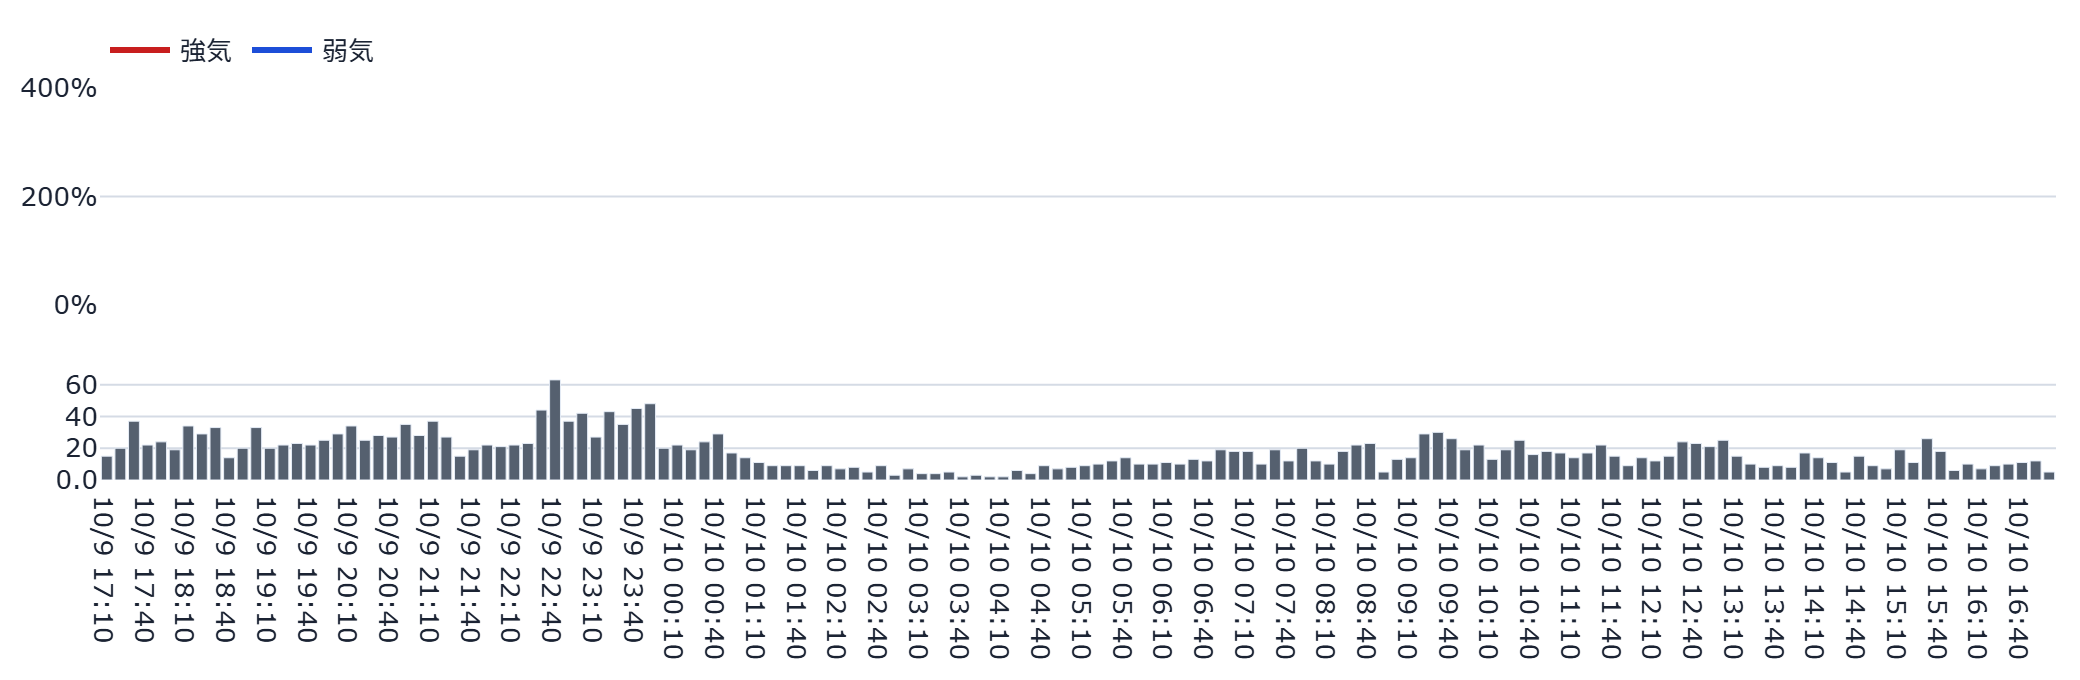
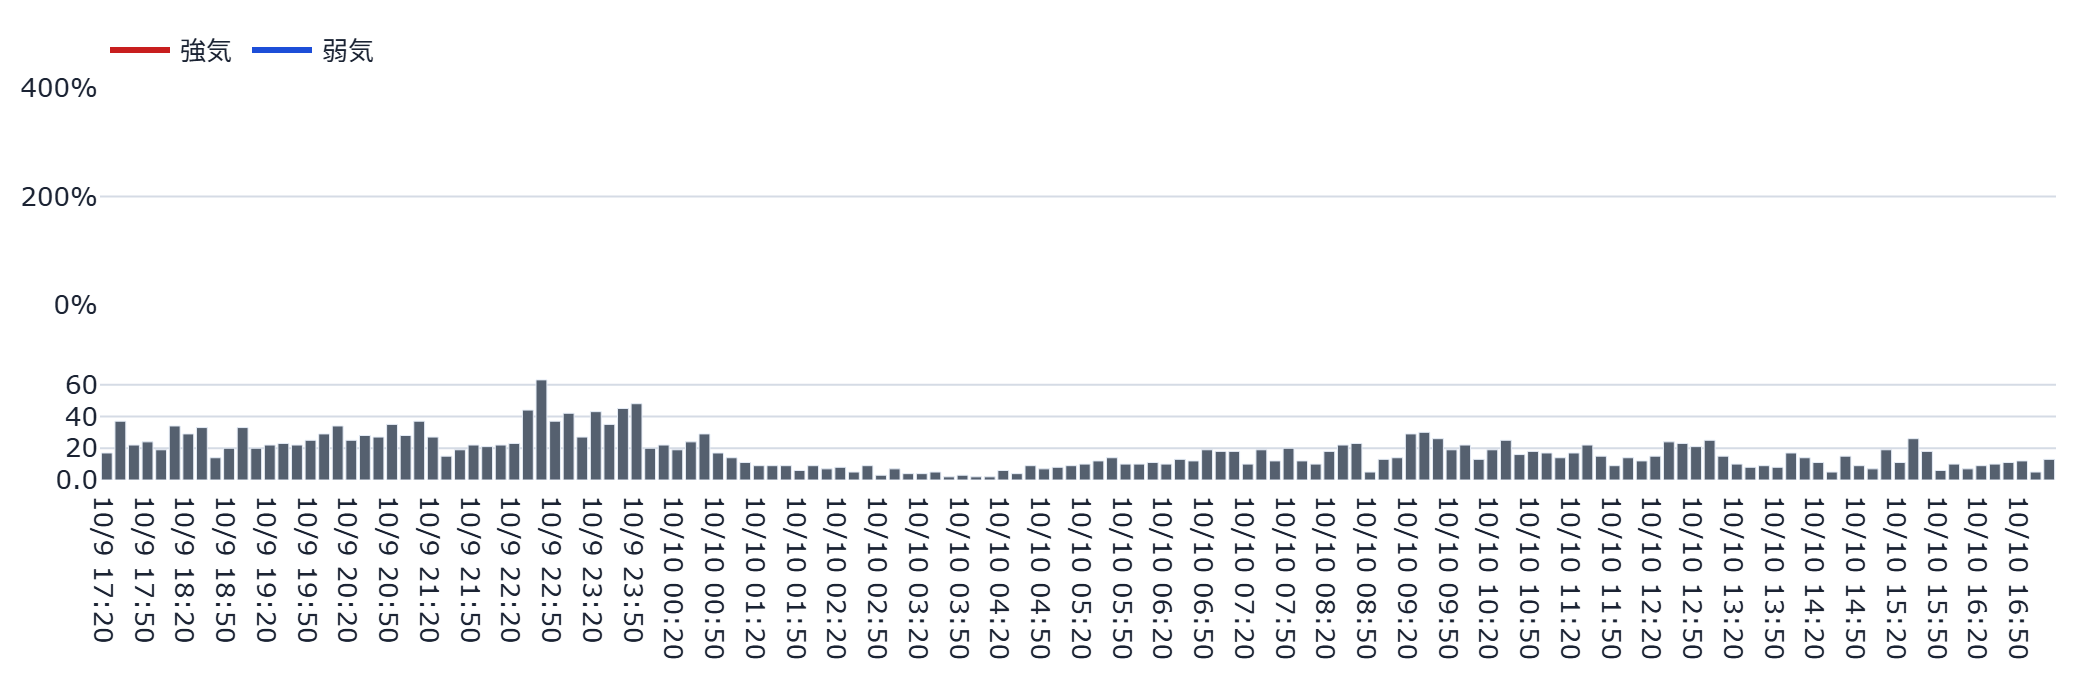
auto: refresh static dashboard (2026-10-10 17:29:11 JST)

diff --git a/docs/index.html b/docs/index.html
@@ -144,47 +144,59 @@
         <span class="price">17,505円</span>
         <span class="chg" style="color:#8B94A3">—</span>
       </div>
-      <p class="caption">更新時刻: 2026-10-10T17:14:08（データは1分間隔で自動生成され、このページも
+      <p class="caption">更新時刻: 2026-10-10T17:24:06（データは1分間隔で自動生成され、このページも
       60秒毎に自動再読み込みされます）</p>
       
-      <p id='visit-count-badge' class='caption'>👀 累計閲覧数: 8,820</p>
+      <p id='visit-count-badge' class='caption'>👀 累計閲覧数: 8,822</p>
       <p id='like-button-wrap' class='caption'><button id='like-button' type='button' style='cursor:pointer;border:1px solid var(--border);border-radius:6px;padding:1px 10px;margin-right:6px;background:var(--panel);color:var(--text);font-size:1em;vertical-align:middle'>👍</button><span id='like-count-label'>このダッシュボードが役に立ったら押してください（累計 4 いいね）</span></p>
 
       <!-- ★2026-09-08追加(ユーザー指示「AI考察はトップに移動」): モニタ
            (ai_sector_monitor)のtemplates/index.htmlと同じく、AI考察はタブ非依存で
            常時最上部に表示する。 -->
       <h2>🤖 AI考察</h2>
-      <div class='metric-row'><div class='metric-card'><div class='metric-label'>株価</div><div class='metric-value'>17,505円</div><div class='metric-delta'>+0円</div></div><div class='metric-card'><div class='metric-label'>強気比率</div><div class='metric-value'>—</div><div class='metric-delta'>—</div></div><div class='metric-card'><div class='metric-label'>弱気比率</div><div class='metric-value'>—</div><div class='metric-delta'>—</div></div></div><p class='caption'>前回集計(2026-10-10T17:04:56)との比較</p>
-      <div class='ai-box'>**※本分析は「掲示板投稿の集計センチメントデータに基づく分析」であり、投資助言ではありません。**<br>
+      <div class='metric-row'><div class='metric-card'><div class='metric-label'>株価</div><div class='metric-value'>17,505円</div><div class='metric-delta'>+0円</div></div><div class='metric-card'><div class='metric-label'>強気比率</div><div class='metric-value'>—</div><div class='metric-delta'>—</div></div><div class='metric-card'><div class='metric-label'>弱気比率</div><div class='metric-value'>—</div><div class='metric-delta'>—</div></div></div><p class='caption'>前回集計(2026-10-10T17:14:08)との比較</p>
+      <div class='ai-box'>**※本分析は「掲示板投稿の集計センチメントデータに基づく」ものであり、投資助言ではありません。**<br>
 <br>
 ---<br>
 <br>
 ### 全体的な概況  <br>
-2026‑10‑10 17:12 時点のキオクシアホールディングス（285A）の掲示板センチメントは、過熱度スコアが **0.0／36** と極めて低く、熱狂的な買い圧力はほぼ見られません。一方、総悲観度スコアは **100.0** に達しており、ネガティブ感情が支配的です。シグナルでは「ネームド集中」「他銘柄混入率」「阿鼻叫喚」の３指標が発火し、話題が散漫化していることが示唆されています。<br>
+2026‑10‑09（取引最終日）の終値は 17,505 円で、直近数日間の価格変動幅は概ね±3％程度に収まっています。一方、掲示板側は「投稿数＋13件」という僅かな増加が見られましたが、強気／弱気比率は依然として不明です。<br>
 <br>
-### 価格とセンチメントの乖離  <br>
-直近１週間の終値は **16 627 → 19 300**（最高）→ **17 505**（最新）へと上下を繰り返しています。特に 10/08‑10/09 の連続下落後、価格は若干回復しましたが、掲示板の強気比率は **35.4％** と依然低く、弱気比率が **52.1％** を占めています。過熱度が低いにも関わらず価格が一時的に上昇した点は、外部要因（米国ADRの下落やSOX指数の調整）による市場全体のリスク回避姿勢が影響した可能性があります。<br>
+### センチメント指標と過熱度・悲観度の乖離  <br>
+- **過熱度スコア＝0.0**（閾値 36）で、過熱感はほぼ不存在。  <br>
+- **総悲観度スコア＝100.0**という極端な数値は、掲示板参加者が「不安」や「失望」を強く抱いていることを示唆します。  <br>
+この組み合わせは、価格自体は横ばいでも投資家心理が冷え込みつつある典型的なパターンです。<br>
 <br>
-### ボラティリティとレジーム  <br>
-ボラティリティ指標 BVP＝0.458 は「較正中」に位置し、取引時間内の価格変動は比較的穏やかです。この水準は掲示板のセンチメント（過熱度低・悲観度高）とも概ね一致しており、急激な感情変化が伴わない安定的な相場環境と言えます。ただし、ネームド集中や他銘柄混入率の発火は、潜在的な流動性リスクや情報分散の兆候として注意が必要です。<br>
+### シグナル発火状況とその背景  <br>
+- **ネームド集中（上位5名シェア12％）**が発火：特定ユーザーへの注目度が高まり、情報の偏りが生じやすい状況です。  <br>
+- **他銘柄混入率（11％）**が発火：掲示板テーマが散漫になり、関心が分散している兆候です。  <br>
+- **阿鼻叫喚（セリクラ）スコア＝100.0**が発火：“底値”や“崩壊”を連想させる語彙が多数出現し、恐怖感が顕在化しています。  <br>
+- **話題枯れ（z = ‑1.47）**が発火：投稿量が統計的に低水準で、議論が停滞していることが読み取れます。  <br>
 <br>
-### 前回集計との差分  <br>
-前回（10/10 17:04）と比べ、投稿数は **＋6 件** 増加し、PTS・ADR ではそれぞれ **‑0.61％／‑1.78％** の下落が確認されています。価格自体は変化なしですが、取引時間外の市場が弱含みであることは、翌日の東証開場時にさらなる売り圧力が生じる余地を残しています。<br>
+これらはいずれも「OK」ではなく警戒・発火レベルに達しており、掲示板参加者がリスク回避志向へシフトしている可能性を示しています。<br>
 <br>
 ### 前回取引日からの変化  <br>
-「ネームド集中」「他銘柄混入率」「阿鼻叫喚」の指標がすべて **OK → 発火** に転換し、「話題枯れ」も新たに発火しました。これは掲示板参加者が個別銘柄への関心を失い、代替テーマへシフトしたことを示唆します。結果として、センチメントの分散が進み、特定銘柄への過度な期待が薄れた可能性があります。<br>
+- **ネームド集中**は OK → 発火 に転換し、特定人物への注目が急増。  <br>
+- **他銘柄混入率**も同様に OK → 発火 に変化し、テーマの拡散が顕著です。  <br>
+- **阿鼻叫喚**は警戒段階から発火へエスカレーションし、恐怖感が強まっています。  <br>
+- **話題枯れ**も新たに発火となり、議論の活性化が阻害されています。  <br>
 <br>
-### 本日の値動きの型  <br>
-本日の値動きは **トレンド型** と分類され、予測不確実性は「普段並み」でした。事後の分類であるため、今後の継続性や方向性については言及できませんが、現在は一定のトレンドが形成されていることが読み取れます。<br>
+短期間に複数の指標が同時に発火したことは、掲示板全体の雰囲気が急変したことを裏付けます。<br>
 <br>
----<br>
+### ボラティリティとレジーム帯  <br>
+現在のレジームは *calibrating*（ボラティリティ指標 BVP = 0.458）で、比較的安定した水準です。過熱度が低くボラティリティも抑制的である点は、価格が急激に変動しにくい環境を示していますが、悲観度スコアの高さが示すように心理的リスクは依然として大きいと言えます。<br>
 <br>
-#### まとめ（200字以内）  <br>
-過熱度が低く総悲観度が高い中で価格は一時的に回復したものの、弱気比率が上昇しネームド集中や他銘柄混入率が発火している点から、感情は依然として分散化しています。ボラティリティは較中レベルで掲示板センチメントと整合しており、取引時間外の米国ADR下落が市場全体のリスク回避姿勢を反映しています。  <br>
+### 取引時間外の動き  <br>
+- **PTS（夜間取引）**は 17,399 円（‑0.61％）で、東証終値よりやや低めに推移しています。  <br>
+- **米国ADR**は 17,193 円（‑1.78％）とさらに下落しており、海外市場でも若干の売り圧力が確認できます。  <br>
+これらは「取引時間外」の参考情報として提示されていますが、翌日の東証での値動きを直接予測するものではありません。<br>
+<br>
+### 結論的な読み取り  <br>
+価格は横ばいながら、掲示板センチメントは過熱感の欠如と極端な悲観感が同居する状態です。シグナル発火が多数見られることから、投資家心理はリスク回避・不安が支配的であり、情報の質が低下しつつある様子が伺えます。ボラティリティ自体は比較的落ち着いているものの、心理的要因による潜在的な揺れが残存している点に留意が必要です。<br>
 <br>
 --- <br>
 <br>
-*本分析はあくまで集計データに基づく客観的評価であり、投資判断の材料としてはご自身の調査・検証を併せてご利用ください。*</div><p class='caption'>生成時刻: 2026-10-10T17:14:08</p>
+*本分析はあくまで集計データに基づく客観的な解釈です。投資判断を行う際は、他の情報源やご自身のリスク許容度を併せてご検討ください。*</div><p class='caption'>生成時刻: 2026-10-10T17:24:06</p>
 
       <!-- ★2026-09-08追加(ユーザー指示「AIセクターワールドモニターと同様に、
            各表示をグルーピングしてタブで選択できるように」): モニタの
@@ -310,7 +322,7 @@
 
       <hr style="border:none;border-top:1px solid var(--border);margin:2rem 0 1rem">
       <p class="caption">⚠ 本情報は掲示板投稿を統計的に集計したものであり、投資助言ではありません。個別の投稿内容は含まれていません。研究・エンタメ用途です。</p>
-      <footer>生成: generate_static_dashboard.py（2026-10-10T17:18:55） /
+      <footer>生成: generate_static_dashboard.py（2026-10-10T17:29:04） /
       画像バックエンド: plotly+kaleido</footer>
     </div>
     <script>(function(){var url="https://script.google.com/macros/s/AKfycbwgSSGQ2n56ohmIYKlNDA1Xe3D8hd3GJbD0U90L4DGtXdb8pqrPokNMHJWjvN1__7bE/exec";var KEY='bbs_visit_counted';var already=sessionStorage.getItem(KEY);var action=already?'read':'hit';var ctrl=(typeof AbortController!=='undefined')?new AbortController():null;var timer=ctrl?setTimeout(function(){ctrl.abort();},5000):null;fetch(url+'?action='+action,{signal:ctrl?ctrl.signal:undefined}).then(function(r){if(timer)clearTimeout(timer);return r.json();}).then(function(data){if(!already)sessionStorage.setItem(KEY,'1');if(data&&typeof data.count==='number'){var el=document.getElementById('visit-count-badge');if(el){el.textContent='\u{1F440} \u7d2f\u8a08\u95b2\u89a7\u6570: '+data.count.toLocaleString();el.style.display='';}}}).catch(function(e){if(timer)clearTimeout(timer);console.warn('visit counter fetch failed (fail-soft):',e);});})();</script><script>(function(){var url="https://script.google.com/macros/s/AKfycbwgSSGQ2n56ohmIYKlNDA1Xe3D8hd3GJbD0U90L4DGtXdb8pqrPokNMHJWjvN1__7bE/exec";var KEY='bbs_liked';var btn=document.getElementById('like-button');var label=document.getElementById('like-count-label');if(!btn||!label)return;function renderLiked(count){btn.disabled=true;btn.style.cursor='default';btn.style.opacity='0.6';btn.textContent='\u2705';label.textContent="\u3044\u3044\u306d\u3057\u307e\u3057\u305f\uff01"+(typeof count==='number'?"\uff08\u7d2f\u8a08 "+count.toLocaleString()+" \u3044\u3044\u306d\uff09":'');}if(localStorage.getItem(KEY)){renderLiked(null);}btn.addEventListener('click',function(){if(localStorage.getItem(KEY))return;btn.disabled=true;var ctrl=(typeof AbortController!=='undefined')?new AbortController():null;var timer=ctrl?setTimeout(function(){ctrl.abort();},5000):null;fetch(url+'?action=like_hit',{signal:ctrl?ctrl.signal:undefined}).then(function(r){if(timer)clearTimeout(timer);return r.json();}).then(function(data){localStorage.setItem(KEY,'1');renderLiked(data&&typeof data.count==='number'?data.count:null);}).catch(function(e){if(timer)clearTimeout(timer);btn.disabled=false;console.warn('like button fetch failed (fail-soft):',e);});});})();</script><script>(function(){var DEFAULT_TAB='overview';function activate(tabName){var buttons=document.querySelectorAll('.tab-bar .tab-btn');var panels=document.querySelectorAll('[data-tab-panel]');if(!buttons.length||!panels.length)return;var matched=false;panels.forEach(function(p){var on=p.getAttribute('data-tab-panel')===tabName;if(on)matched=true;p.classList.toggle('tab-hidden',!on);});if(!matched){panels.forEach(function(p){p.classList.toggle('tab-hidden',p.getAttribute('data-tab-panel')!==DEFAULT_TAB);});tabName=DEFAULT_TAB;}buttons.forEach(function(b){var on=b.getAttribute('data-tab')===tabName;b.classList.toggle('active',on);b.setAttribute('aria-selected',on?'true':'false');});}document.addEventListener('DOMContentLoaded',function(){var bar=document.getElementById('tabBar');if(!bar)return;bar.addEventListener('click',function(e){var btn=e.target.closest('.tab-btn');if(!btn)return;activate(btn.getAttribute('data-tab'));});activate(DEFAULT_TAB);});})();</script></body></html>
